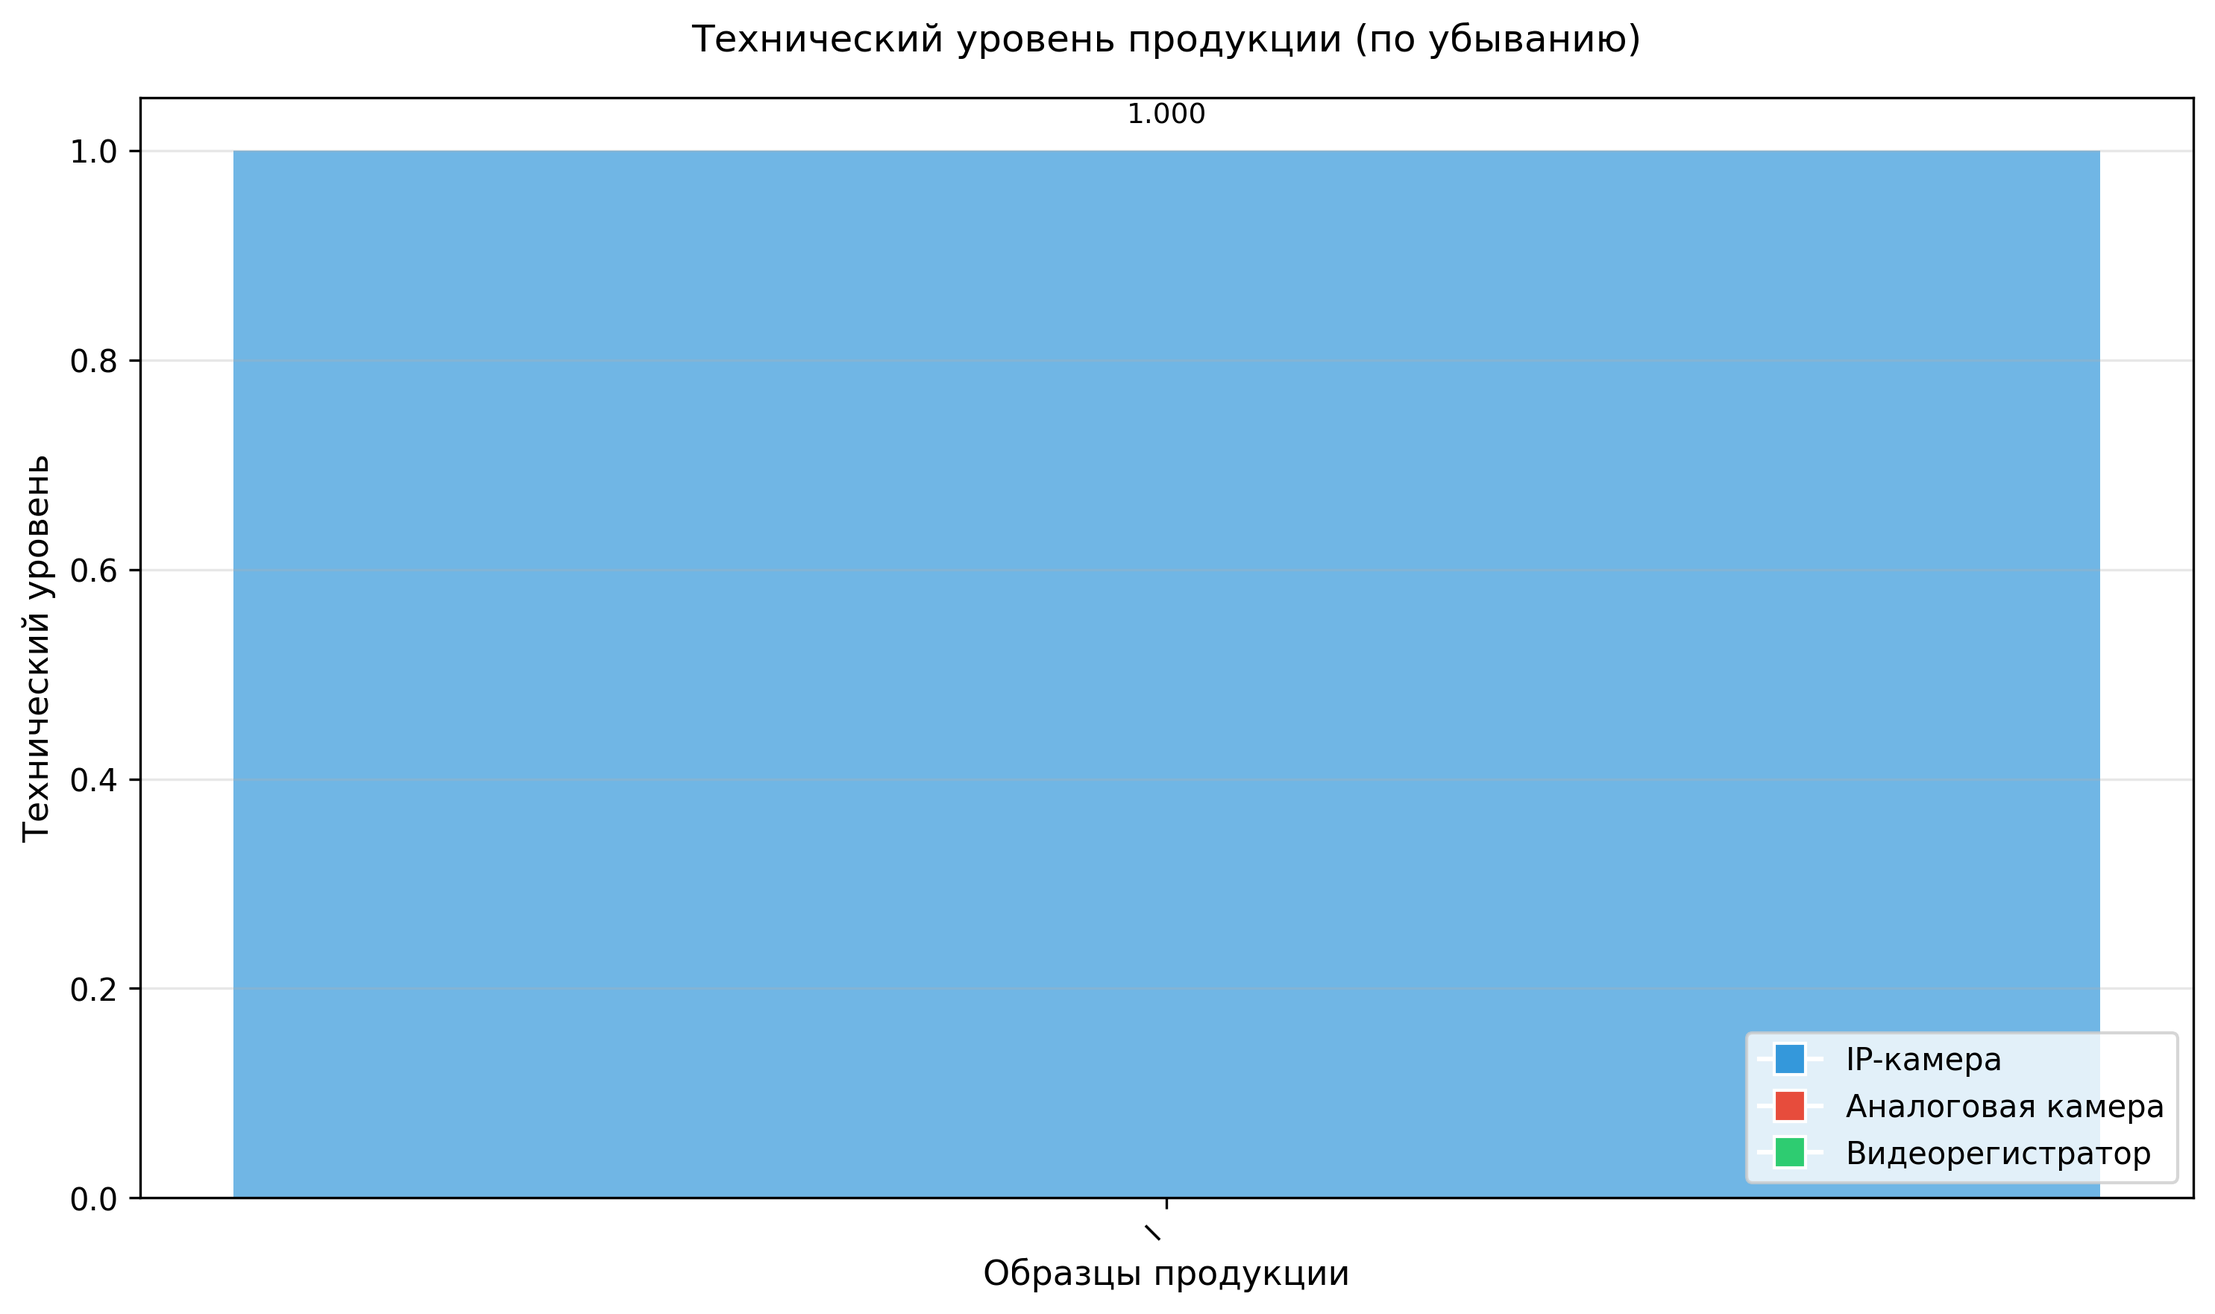
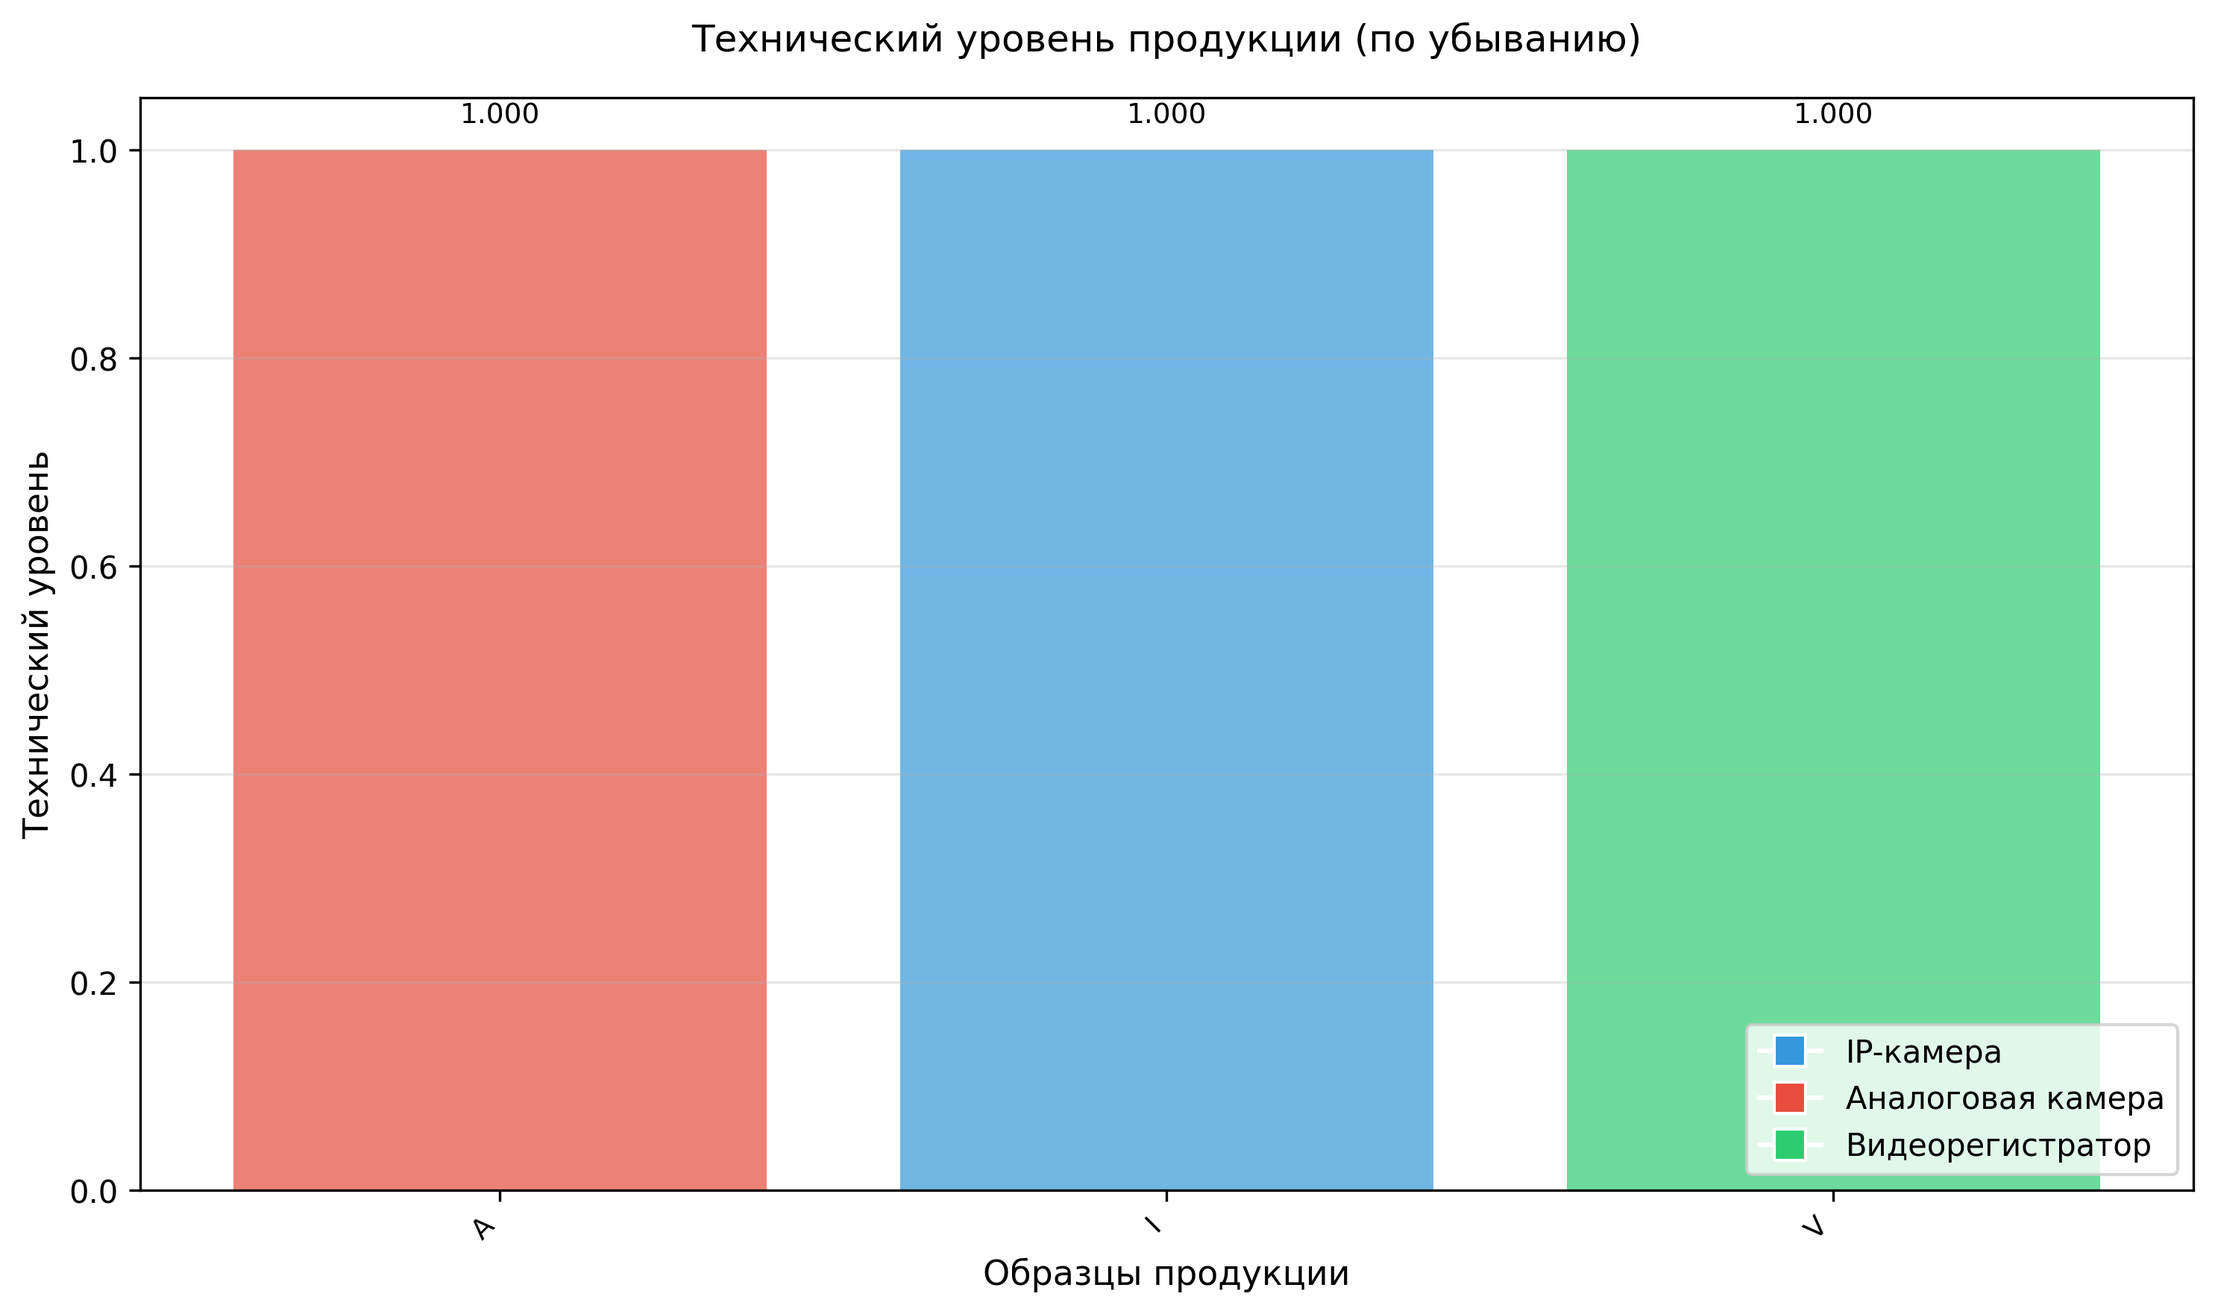
25

diff --git a/CamerasW.py b/CamerasW.py
@@ -3,6 +3,10 @@ import json
 import csv
 import os
 from datetime import datetime
+import numpy as np
+from sklearn.linear_model import LinearRegression
+from sklearn.preprocessing import PolynomialFeatures
+from sklearn.metrics import r2_score, mean_squared_error
 
 try:
     import matplotlib.pyplot as plt
@@ -469,6 +473,318 @@ def show_all_samples(samples):
     
     print("="*70)
 
+class ForecastModule:
+    def __init__(self):
+        self.data = []
+        self.features = []
+        self.target = ''
+        self.model = None
+        self.model_type = ''
+        self.feature_names = []
+        
+    def load_data_from_samples(self, samples):
+        if not samples:
+            print("Нет данных для анализа")
+            return False
+            
+        self.data = []
+        self.feature_names = list(samples[0].characteristics.keys())
+        
+        for sample in samples:
+            row = {}
+            for char_name, char_data in sample.characteristics.items():
+                row[char_name] = char_data['value']
+            row['technical_level'] = sample.technical_level
+            self.data.append(row)
+            
+        print(f"✓ Загружено {len(self.data)} записей с {len(self.feature_names)} характеристиками")
+        return True
+    
+    def analyze_data(self):
+        if not HAS_MATPLOTLIB or not self.data:
+            print("Нет данных для анализа")
+            return
+            
+        print("\n" + "="*60)
+        print("АНАЛИЗ ИСХОДНЫХ ДАННЫХ")
+        print("="*60)
+        
+        print("\nСтатистика по характеристикам:")
+        for feat in self.feature_names:
+            values = [row[feat] for row in self.data if feat in row]
+            if values:
+                print(f"\n{feat}:")
+                print(f"  Мин: {min(values):.3f}, Макс: {max(values):.3f}, Среднее: {np.mean(values):.3f}")
+            else:
+                print(f"\n{feat}: Нет данных")
+        
+        print("\n" + "-"*60)
+        print("Корреляция характеристик с техническим уровнем:")
+        
+        correlations = {}
+        for feat in self.feature_names:
+            x_list = []
+            y_list = []
+            for row in self.data:
+                if feat in row:
+                    x_list.append(row[feat])
+                    y_list.append(row['technical_level'])
+            
+            x = np.array(x_list)
+            y = np.array(y_list)
+            
+            if len(x) > 1 and np.std(x) > 0:
+                corr = np.corrcoef(x, y)[0, 1]
+                correlations[feat] = corr
+                strength = "сильная" if abs(corr) > 0.7 else "средняя" if abs(corr) > 0.4 else "слабая"
+                print(f"  {feat}: {corr:.3f} ({strength})")
+        
+        if HAS_MATPLOTLIB:
+            fig, axes = plt.subplots(2, 2, figsize=(12, 10))
+            axes = axes.flatten()
+            
+            sorted_corr = sorted(correlations.items(), key=lambda x: abs(x[1]), reverse=True)
+            
+            for i, (feat, corr) in enumerate(sorted_corr[:4]):
+                x_list = []
+                y_list = []
+                for row in self.data:
+                    if feat in row:
+                        x_list.append(row[feat])
+                        y_list.append(row['technical_level'])
+                
+                x = np.array(x_list)
+                y = np.array(y_list)
+                
+                axes[i].scatter(x, y, alpha=0.6, color='blue')
+                axes[i].set_xlabel(feat, fontsize=9)
+                axes[i].set_ylabel('Технический уровень', fontsize=9)
+                axes[i].set_title(f'{feat}\nКорреляция: {corr:.3f}', fontsize=10)
+                axes[i].grid(True, alpha=0.3)
+                
+                if len(x) > 1:
+                    z = np.polyfit(x, y, 1)
+                    p = np.poly1d(z)
+                    axes[i].plot(x, p(x), "r--", alpha=0.5, linewidth=1)
+            
+            plt.tight_layout()
+            plt.savefig('correlation_analysis.png', dpi=300, bbox_inches='tight')
+            print("\n✓ Графики корреляций сохранены в correlation_analysis.png")
+            plt.show()
+        
+        return correlations
+    
+    def choose_model(self):
+        if not self.data:
+            print("Нет данных для обучения модели")
+            return
+            
+        print("\n" + "="*60)
+        print("ВЫБОР МОДЕЛИ РЕГРЕССИИ")
+        print("="*60)
+        
+        correlations = {}
+        for feat in self.feature_names:
+            x_list = []
+            y_list = []
+            for row in self.data:
+                if feat in row:
+                    x_list.append(row[feat])
+                    y_list.append(row['technical_level'])
+            
+            x = np.array(x_list)
+            y = np.array(y_list)
+            
+            if len(x) > 1 and np.std(x) > 0:
+                correlations[feat] = abs(np.corrcoef(x, y)[0, 1])
+        
+        if not correlations:
+            print("Недостаточно данных для выбора модели")
+            return
+            
+        best_feature = max(correlations.items(), key=lambda x: x[1])[0]
+        print(f"\nНаиболее коррелирующий признак: {best_feature}")
+        
+        X_list = []
+        y_list = []
+        for row in self.data:
+            if best_feature in row:
+                X_list.append(row[best_feature])
+                y_list.append(row['technical_level'])
+                
+        X = np.array(X_list).reshape(-1, 1)
+        y = np.array(y_list)
+        
+        lin_reg = LinearRegression()
+        lin_reg.fit(X, y)
+        y_pred_lin = lin_reg.predict(X)
+        r2_lin = r2_score(y, y_pred_lin)
+        mse_lin = mean_squared_error(y, y_pred_lin)
+        
+        print(f"\nЛинейная регрессия:")
+        print(f"  R² = {r2_lin:.4f}")
+        print(f"  MSE = {mse_lin:.4f}")
+        print(f"  Уравнение: ТУ = {lin_reg.coef_[0]:.4f} * {best_feature} + {lin_reg.intercept_:.4f}")
+        
+        poly = PolynomialFeatures(degree=2)
+        X_poly = poly.fit_transform(X)
+        poly_reg = LinearRegression()
+        poly_reg.fit(X_poly, y)
+        y_pred_poly = poly_reg.predict(X_poly)
+        r2_poly = r2_score(y, y_pred_poly)
+        mse_poly = mean_squared_error(y, y_pred_poly)
+        
+        print(f"\nПолиномиальная регрессия (степень 2):")
+        print(f"  R² = {r2_poly:.4f}")
+        print(f"  MSE = {mse_poly:.4f}")
+        
+        if r2_poly > r2_lin and (r2_poly - r2_lin) > 0.05:
+            self.model = ('poly', poly_reg, poly, best_feature)
+            self.model_type = 'poly'
+            print(f"\n✓ Выбрана ПОЛИНОМИАЛЬНАЯ модель (лучшее качество)")
+        else:
+            self.model = ('linear', lin_reg, None, best_feature)
+            self.model_type = 'linear'
+            print(f"\n✓ Выбрана ЛИНЕЙНАЯ модель (достаточное качество, меньше переобучения)")
+        
+        if HAS_MATPLOTLIB:
+            fig, ax = plt.subplots(figsize=(10, 6))
+            ax.scatter(X, y, color='blue', alpha=0.6, label='Данные')
+            
+            X_test = np.linspace(X.min(), X.max(), 100).reshape(-1, 1)
+            
+            if self.model_type == 'linear':
+                y_test = self.model[1].predict(X_test)
+                ax.plot(X_test, y_test, 'r-', linewidth=2, label=f'Линейная (R²={r2_lin:.3f})')
+            else:
+                X_test_poly = self.model[2].transform(X_test)
+                y_test = self.model[1].predict(X_test_poly)
+                ax.plot(X_test, y_test, 'g-', linewidth=2, label=f'Полиномиальная (R²={r2_poly:.3f})')
+            
+            ax.set_xlabel(best_feature)
+            ax.set_ylabel('Технический уровень')
+            ax.set_title(f'Модель прогноза технического уровня\nна основе признака: {best_feature}')
+            ax.legend()
+            ax.grid(True, alpha=0.3)
+            
+            plt.savefig('regression_model.png', dpi=300, bbox_inches='tight')
+            print("✓ График модели сохранен в regression_model.png")
+            plt.show()
+    
+    def predict_single(self):
+        if not self.model:
+            print("Сначала выберите модель (пункт 2)")
+            return
+            
+        print("\n" + "="*60)
+        print("ПРОГНОЗ ТЕХНИЧЕСКОГО УРОВНЯ")
+        print("="*60)
+        
+        feature_name = self.model[3]
+        print(f"\nВведите значение признака '{feature_name}':")
+        
+        try:
+            value = float(input("> "))
+        except ValueError:
+            print("Ошибка: введите числовое значение")
+            return
+        
+        if self.model_type == 'linear':
+            prediction = self.model[1].predict(np.array([[value]]))[0]
+        else:
+            X_poly = self.model[2].transform(np.array([[value]]))
+            prediction = self.model[1].predict(X_poly)[0]
+        
+        print(f"\n✓ Прогнозируемый технический уровень: {prediction:.4f}")
+        
+        if prediction > 1.0:
+            print("  Оценка: ВЫШЕ базового уровня ✓")
+        elif prediction >= 0.9:
+            print("  Оценка: СООТВЕТСТВУЕТ базовому уровню")
+        else:
+            print("  Оценка: НИЖЕ базового уровня ")
+    
+    def predict_interval(self):
+        if not self.model:
+            print("Сначала выберите модель (пункт 2)")
+            return
+            
+        print("\n" + "="*60)
+        print("ПРОГНОЗ НА ИНТЕРВАЛЕ ЗНАЧЕНИЙ")
+        print("="*60)
+        
+        feature_name = self.model[3]
+        print(f"\nПризнак: {feature_name}")
+        print("Введите диапазон значений:")
+        
+        try:
+            start = float(input("  Начальное значение: "))
+            end = float(input("  Конечное значение: "))
+            steps = int(input("  Количество точек: "))
+        except ValueError:
+            print("Ошибка: введите числовые значения")
+            return
+        
+        X_interval = np.linspace(start, end, steps).reshape(-1, 1)
+        
+        if self.model_type == 'linear':
+            y_interval = self.model[1].predict(X_interval)
+        else:
+            X_poly = self.model[2].transform(X_interval)
+            y_interval = self.model[1].predict(X_poly)
+        
+        print("\n" + "-"*60)
+        print(f"{'Значение':<20} {'Прогноз ТУ':<20}")
+        print("-"*60)
+        for x, y in zip(X_interval.flatten(), y_interval):
+            print(f"{x:<20.3f} {y:<20.4f}")
+        print("-"*60)
+        
+        if HAS_MATPLOTLIB:
+            fig, ax = plt.subplots(figsize=(10, 6))
+            ax.plot(X_interval.flatten(), y_interval, 'b-', linewidth=2, marker='o', markersize=4)
+            ax.set_xlabel(feature_name, fontsize=11)
+            ax.set_ylabel('Прогнозируемый технический уровень', fontsize=11)
+            ax.set_title(f'Зависимость технического уровня\nот {feature_name}', fontsize=12, pad=15)
+            ax.grid(True, alpha=0.3)
+            ax.axhline(y=1.0, color='r', linestyle='--', alpha=0.5, label='Базовый уровень (ТУ=1.0)')
+            ax.legend()
+            
+            plt.savefig('forecast_interval.png', dpi=300, bbox_inches='tight')
+            print("\n✓ График прогноза сохранен в forecast_interval.png")
+            plt.show()
+def forecast_menu(samples, calculator):
+    forecast = ForecastModule()
+    
+    print("\n" + "="*60)
+    print("МОДУЛЬ ПРОГНОЗИРОВАНИЯ ДИНАМИКИ ПОКАЗАТЕЛЕЙ")
+    print("="*60)
+    
+    while True:
+        print("\nМЕНЮ ПРОГНОЗИРОВАНИЯ:")
+        print("1. Загрузить данные и провести анализ")
+        print("2. Выбрать модель регрессии")
+        print("3. Прогноз для конкретных значений")
+        print("4. Прогноз на интервале значений")
+        print("0. Вернуться в главное меню")
+        
+        choice = input("\nВыберите пункт (0-4): ").strip()
+        
+        if choice == '1':
+            if forecast.load_data_from_samples(samples):
+                forecast.analyze_data()
+        elif choice == '2':
+            if forecast.load_data_from_samples(samples):
+                forecast.choose_model()
+        elif choice == '3':
+            forecast.predict_single()
+        elif choice == '4':
+            forecast.predict_interval()
+        elif choice == '0':
+            break
+        else:
+            print("Неверный выбор")
+
 def main_menu():
     print("\n" + "="*70)
     print("ПРОГРАММА ОЦЕНКИ ТЕХНИЧЕСКОГО УРОВНЯ ПРОДУКЦИИ")
@@ -490,10 +806,11 @@ def main_menu():
         print("5. Показать радиальную диаграмму")
         print("6. Показать столбчатую диаграмму")
         print("7. Сохранить данные")
+        print("8. Прогнозирование динамики показателей")
         print("0. Выход")
         print("-"*70)
         
-        choice = input("Выберите пункт меню (0-7): ").strip()
+        choice = input("Выберите пункт меню (0-8): ").strip()
         
         if choice == '1':
             samples = add_sample(samples, calculator)
@@ -526,6 +843,8 @@ def main_menu():
                 data_manager.save_to_csv(samples)
             else:
                 print("Нет данных для сохранения")
+        elif choice == '8':
+            forecast_menu(samples, calculator)
         elif choice == '0':
             print("\nСпасибо за работу!")
             break
